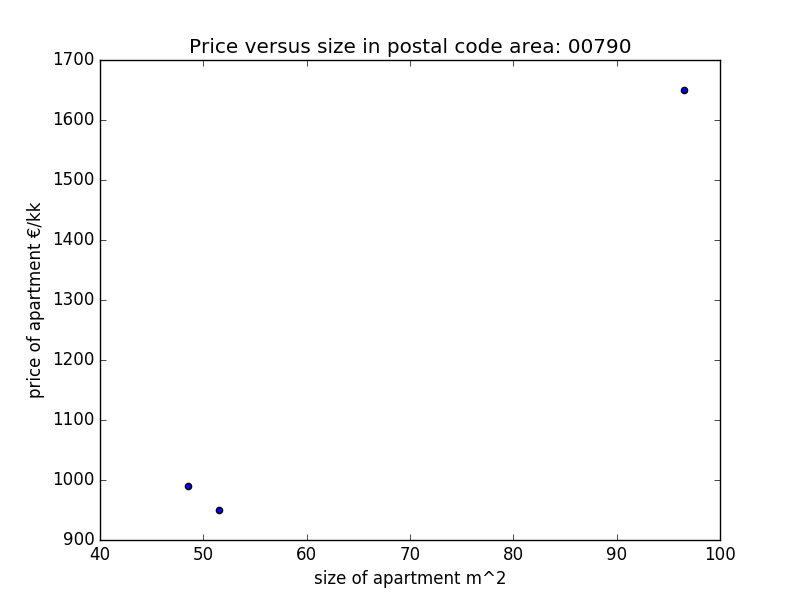
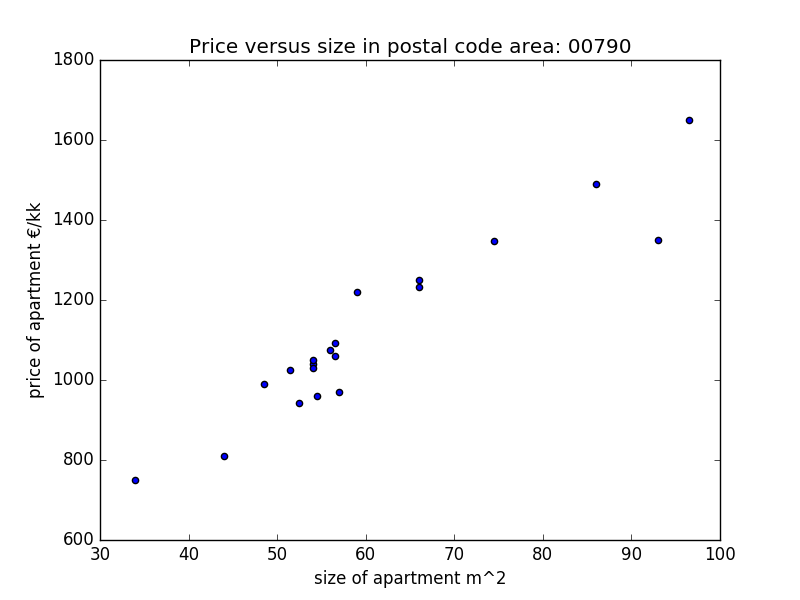
updated scatterplots

diff --git a/src/drawScatterplots.py b/src/drawScatterplots.py
@@ -3,21 +3,61 @@ import dataCleaner as clean
 import matplotlib.pyplot as plt
 import os
 
-myfolder = "figures/scatter"
+myfolder = 'figures/scatter'
 
-groupedBy = 'postal_code'
-filename = 'data/apartments.csv'
+groupedBy = 'POSTI_ALUE'
+filename = 'data/formatted_full_data.csv'
+kuntaFilename = 'data/pkSeutu.csv'
 
 data = pd.read_csv(filename, dtype = {'postal_code':str} )
 data = clean.cleanData(data)
+kuntaArvot = pd.read_csv(kuntaFilename, dtype = {'POSTI_ALUE':str, 'KUNTA':str})
+data['POSTI_ALUE'] = data['postal_code']
+data = data.ix[data['sizeValue'] <= 500]
 
-#plots scatterplot of price versus size of whole area
-data.plot.scatter( y = 'rentValue', x = 'sizeValue')
+#making a kunta column to the data
+data['KUNTA'] = None
+for ix, row in data.iterrows():
+    alue = row['POSTI_ALUE']
+    kunta = kuntaArvot[kuntaArvot['POSTI_ALUE'] == alue]['KUNTA'].item()
+    data.loc[ix, 'KUNTA'] = kunta
+
+kunnittain = data.groupby('KUNTA')
+
+#making plot for whole area with all 'kunta' with different color
+fig, ax = plt.subplots(1, 1)
+colors = ['red', 'green', 'blue', 'black']
+i = 0
+kuntaNames = ['Espoo', 'Helsinki', 'Vantaa', 'Kauniainen']
+for key,group in kunnittain:
+    group.plot.scatter(y='rentValue', x='sizeValue', ax = ax, color = colors[i])
+    i +=1
+plt.legend(kuntaNames)
+plt.title('scatterplot of prices versus size in Helsinki area')
 plt.xlabel('size of apartment')
 plt.ylabel('price of apartment')
 plt.savefig(myfolder + '/priceVersusSizeScatterAll.png')
+plt.cla()
+plt.clf()
 
-groupedStat = pd.DataFrame()
+#plotting each kunta separetly
+fig, ax = plt.subplots(1, 1)
+i = 0
+kuntaNames = ['Espoo', 'Helsinki', 'Vantaa', 'Kauniainen']
+for key,group in kunnittain:
+    group.plot.scatter(y='rentValue', x='sizeValue', ax = ax, color = 'black', alpha = 0.5)
+    #plt.legend(kuntaNames)
+    plt.title('scatterplot of prices versus size in ' + kuntaNames[i])
+    plt.xlabel('size of apartment')
+    plt.ylabel('price of apartment')
+    filename = myfolder + '/pricaVersusSizeScatter' + kuntaNames[i] + '.png'
+    plt.savefig(filename)
+    plt.cla()
+    plt.clf()
+    i +=1
+
+
+#plotting each postal code
 #grouping data by months (and years)
 grouped = data.groupby(groupedBy)
 

diff --git a/src/drawMaps.py b/src/drawMaps.py
@@ -6,10 +6,10 @@ import dataCleaner as clean
 import grouper
 import os
 
-
+'''draws a lot of maps'''
 mapfile = 'data/shapefiles/pkSeutu.shp'
 datafile = 'data/formatted_full_data.csv'
-'''tests the makeMap method'''
+
 #read the scraped data and clean it
 data = pd.read_csv(datafile, dtype = {'postal_code':str} )
 data = clean.cleanData(data)
@@ -25,7 +25,9 @@ map['POSTI_ALUE'] = map['POSTI_ALUE']
 data =  grouper.grouper(data, groupedBy= 'POSTI_ALUE', calculateFrom=['sizeValue', 'rentValue', 'pricePerSquare'])
 data['POSTI_ALUE'] = data['POSTI_ALUE']
 
-#ill toss runtime warning, because more than 20 figures opened
+#will toss runtime warning, because more than 20 figures opened
+#draw maps per postal code
+'''
 folder = 'figures/averagePriceMap'
 for ix, row in map.iterrows():
     alue = row['POSTI_ALUE']
@@ -33,9 +35,16 @@ for ix, row in map.iterrows():
     filepath = os.path.join(folder, name)
     mapMaker.makeMap(map, data, 'POSTI_ALUE', 'pricePerSquare', 'Average price per square in €/m^2',\
                  filepath, spesArea = alue, spesCol = 'POSTI_ALUE')
+'''
+folder = 'figures/averageSizeMap'
+for ix, row in map.iterrows():
+    alue = row['POSTI_ALUE']
+    name = 'avgSize' + alue + '.png'
+    filepath = os.path.join(folder, name)
+    mapMaker.makeMap(map, data, 'POSTI_ALUE', 'sizeValue', 'Average size of apartment in m^2',\
+                 filepath, spesArea = alue, spesCol = 'POSTI_ALUE', maxValue = 250)
 
 
-#draw multiple maps
-#mapMaker.makeMap(map, data, 'POSTI_ALUE', 'sizeValue', 'Average apartmentSize', maxValue = 300, spesArea = '00700', spesCol = 'POSTI_ALUE' )
-#mapMaker.makeMap(map, data, 'POSTI_ALUE', 'pricePerSquare', 'Average price per square in €/m^2', 'figures/averagePriceSquareMap.png')
+mapMaker.makeMap(map, data, 'POSTI_ALUE', 'sizeValue', 'Average size of apartment in m^2','figures/averageApartmentSize.png', maxValue = 250)
+mapMaker.makeMap(map, data, 'POSTI_ALUE', 'pricePerSquare', 'Average price per square in €/m^2', 'figures/averagePriceSquareMap.png')
 
